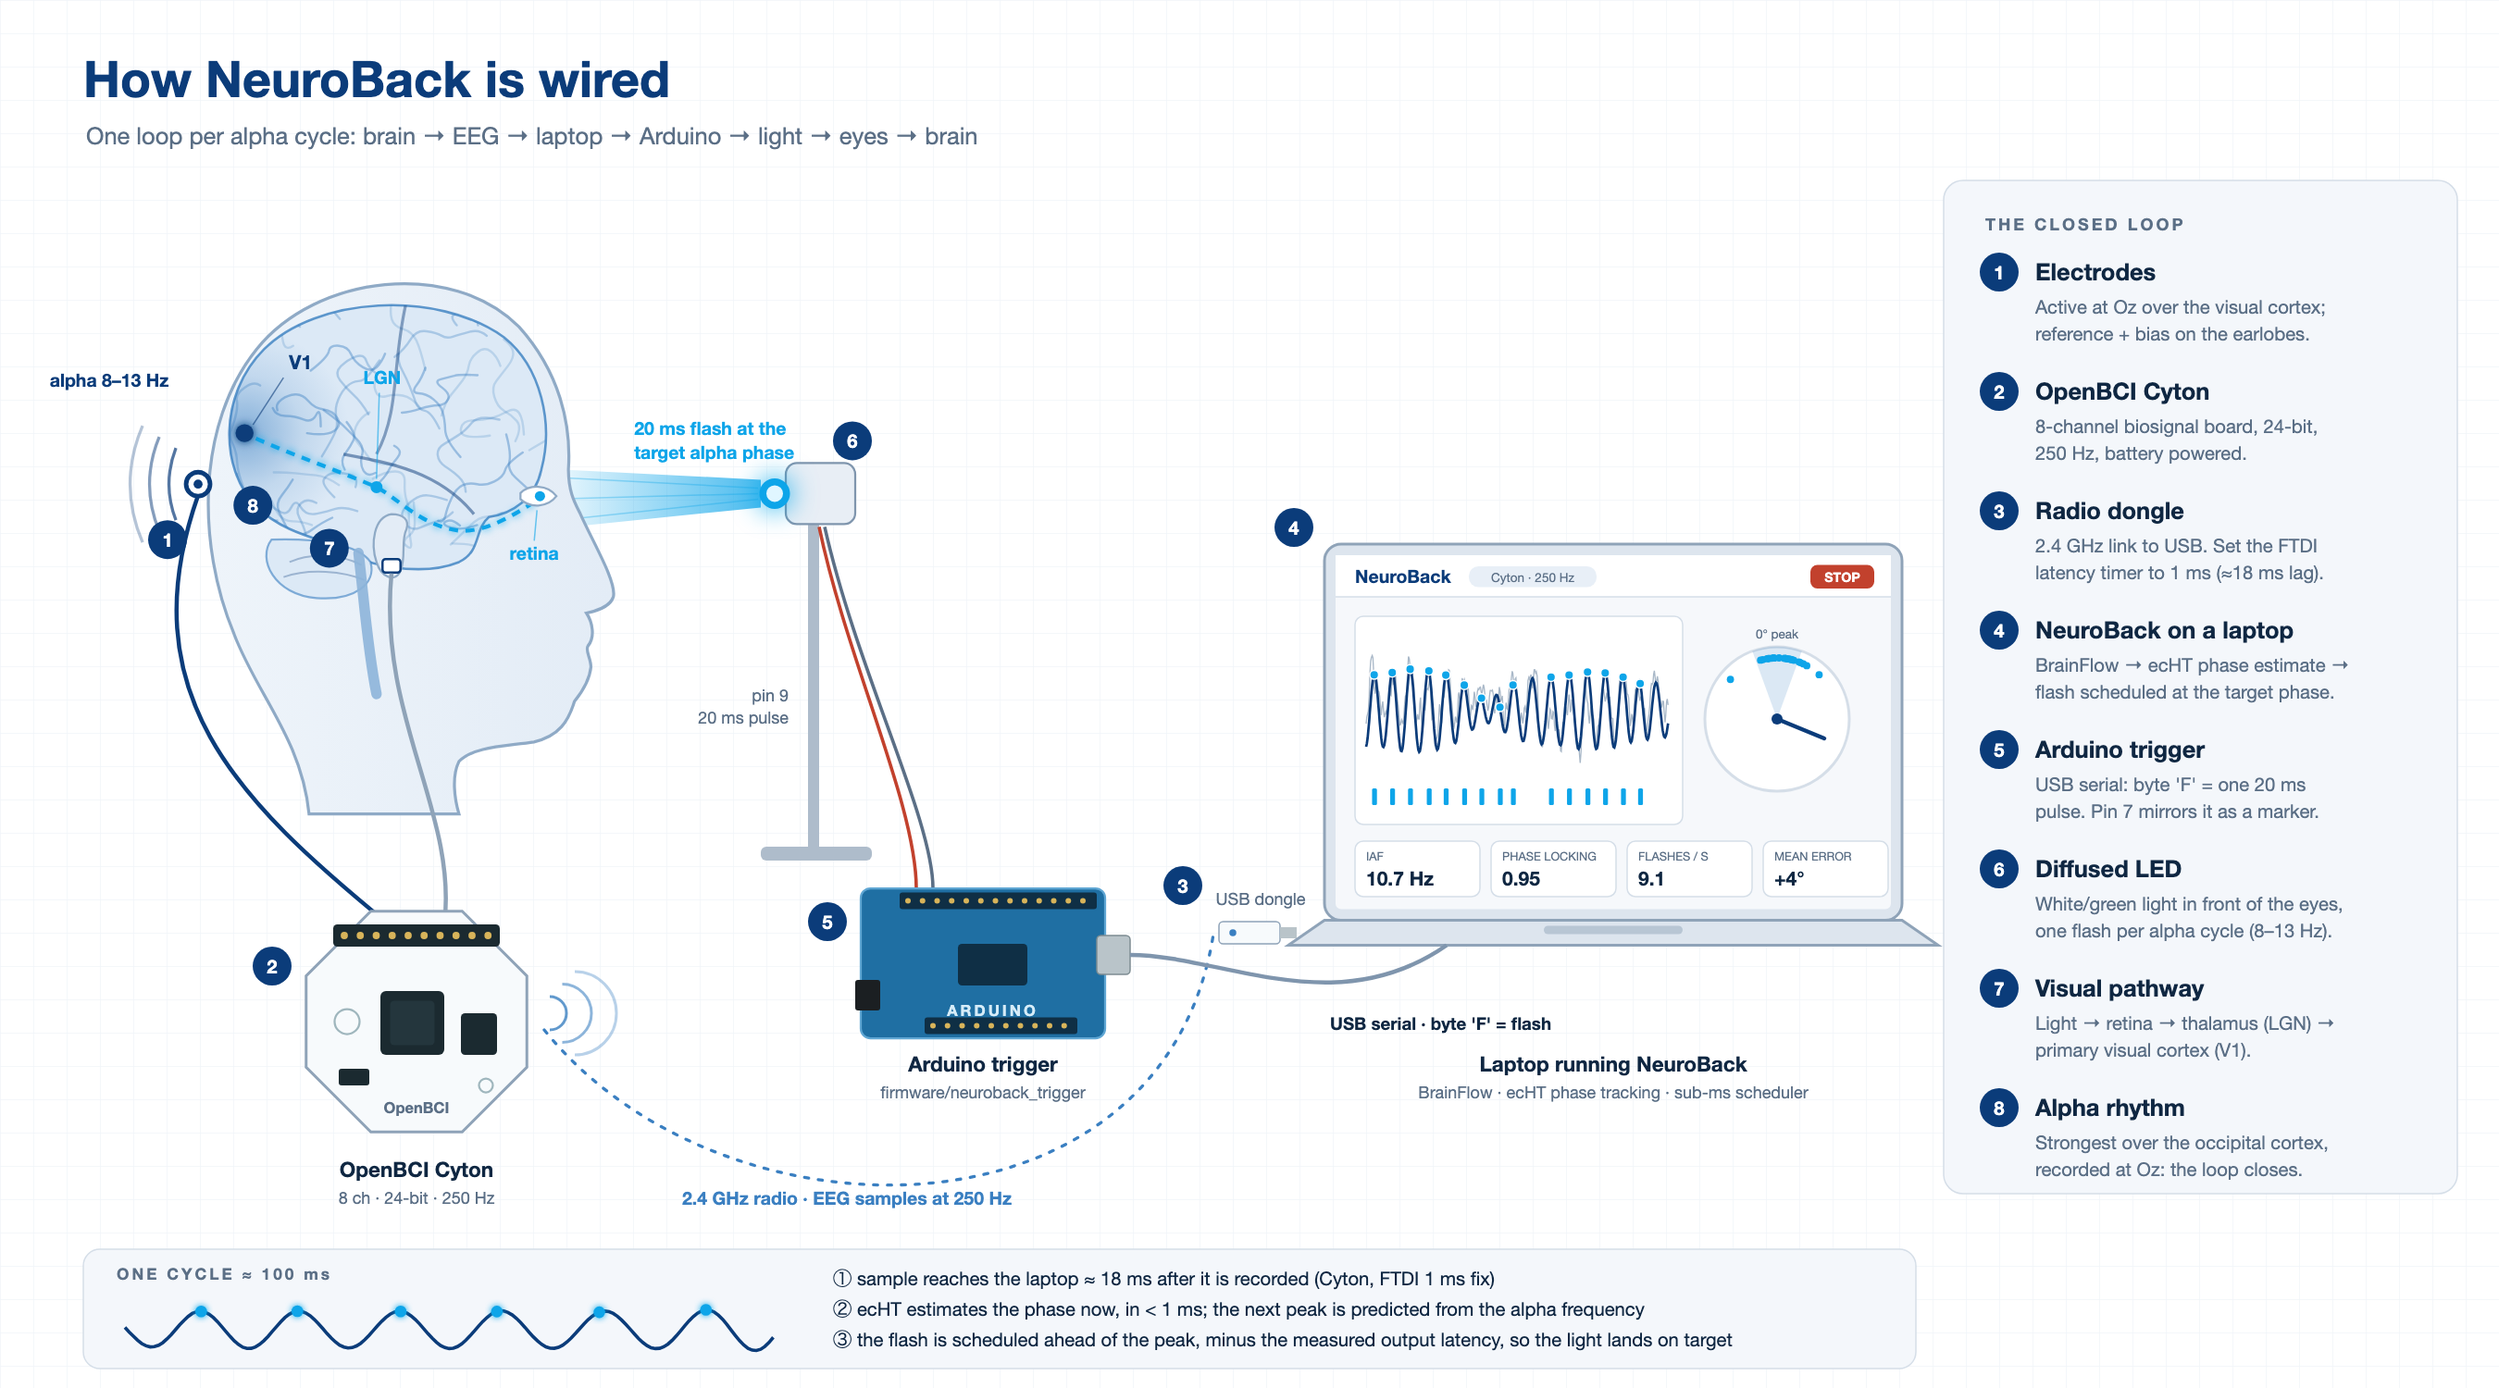
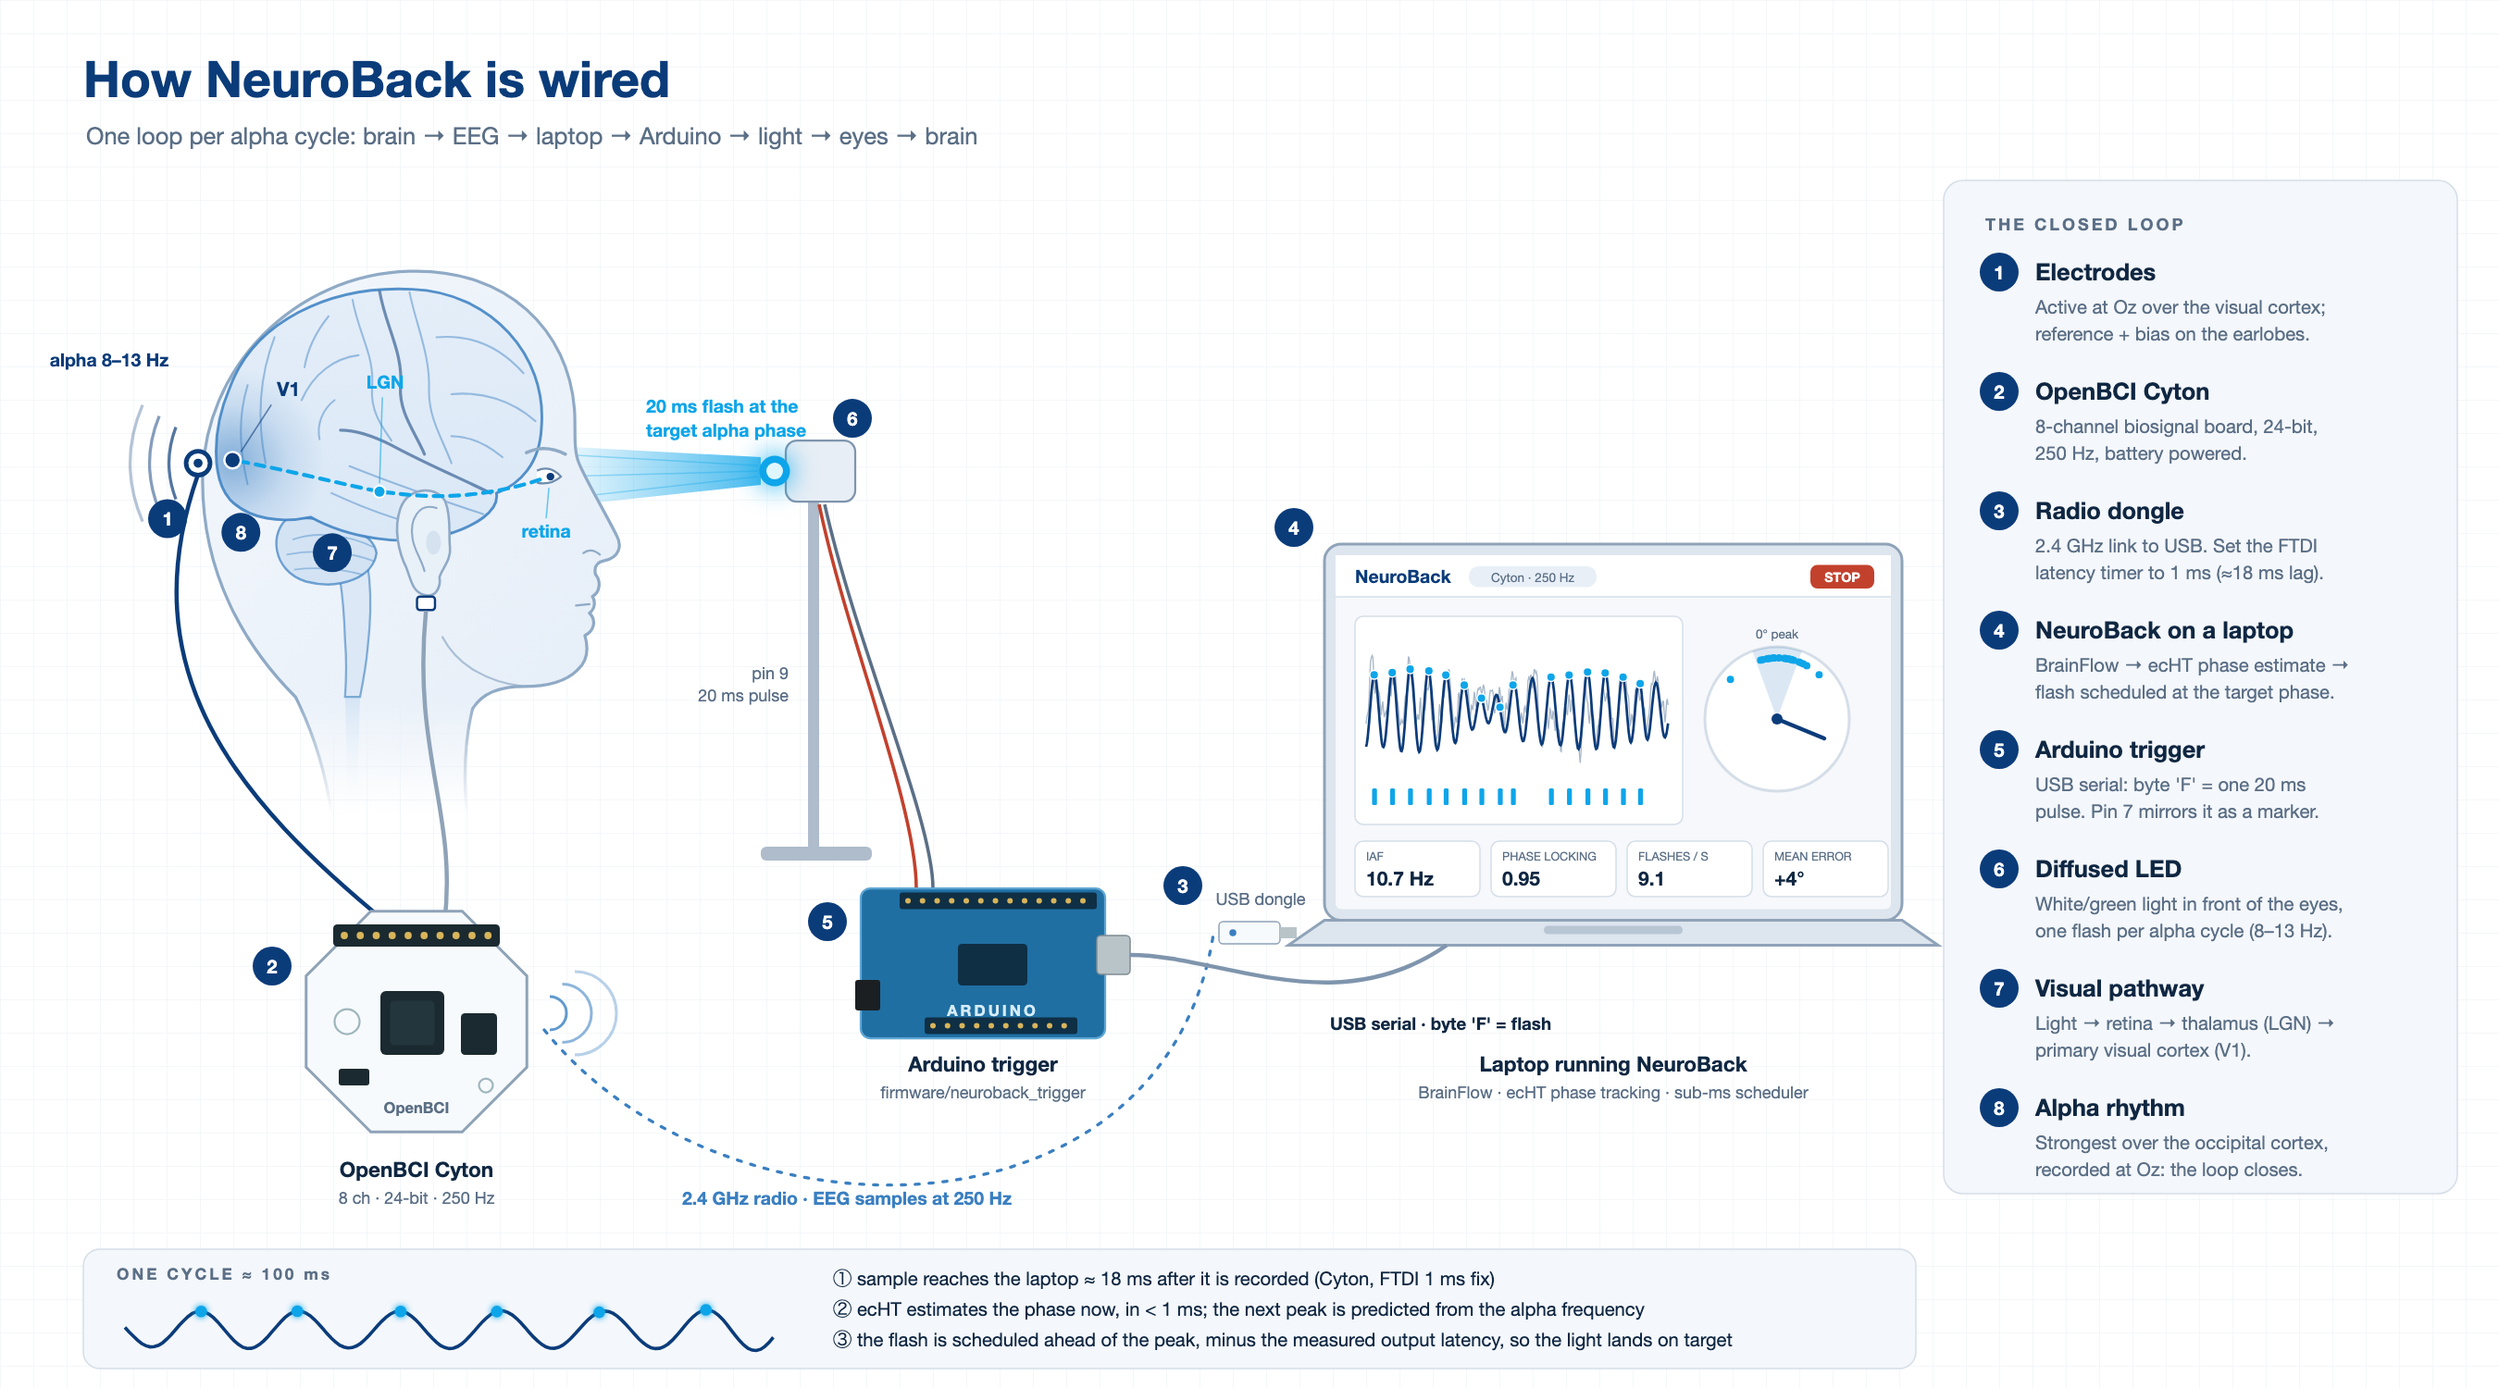
Redraw the participant: realistic head profile and anatomical brain
- head in standard proportions (brow, nose base and chin in thirds),
  defined nose, lips and chin, jaw line, a proper ear, faded neck
- brain in lateral view: rounder cerebrum, central sulcus and lateral
  fissure with gyri following them, cerebellum with folia, tapered
  brainstem and spinal cord; no hard-edged lobe tints
- occipital lobe highlighted (V1, where alpha is recorded at Oz)
- hero labels moved outside the head with leader lines

diff --git a/scripts/make_illustrations.py b/scripts/make_illustrations.py
@@ -38,80 +38,107 @@ BRAIN_FILL = "#DCE9F6"
 FONT = "'Helvetica Neue', Helvetica, 'Segoe UI', sans-serif"
 
 # ----------------------------------------------------------------------------- head + brain
-# Local coordinates: a head in profile facing right, about 300 x 380.
-HEAD = ("M95,380 C90,330 60,300 45,260 C20,200 20,120 60,70 C100,20 190,10 235,55 C262,85 270,120 268,150 "
-        "C268,165 272,172 276,180 C285,200 300,225 298,235 C296,242 285,245 280,246 C284,252 286,262 281,268 "
-        "C279,271 283,276 283,282 C282,292 276,300 272,305 C268,318 262,328 245,332 C225,335 205,335 195,345 "
-        "C190,355 192,370 195,380 Z")
-BRAIN = ("M60,175 C35,150 35,100 65,70 C100,35 180,30 225,62 C250,82 258,120 250,150 C246,170 230,180 215,182 "
-         "C205,190 210,205 195,212 C170,222 130,215 110,200 C95,195 75,190 60,175 Z")
-EYE = (247.0, 170.0)
-OZ = (21.0, 160.0)
-EAR = (150.0, 214.0)
-V1 = (52.0, 126.0)
-PATHWAY = "M245,172 C225,185 210,192 195,191 C170,188 155,170 140,162 C112,150 82,140 54,127"
-
-
-def gyri(seed: int = 4, n: int = 46) -> str:
-    """Procedural sulci: smooth random 'worms' inside the brain outline (clipped)."""
-    rng = np.random.default_rng(seed)
-    out = []
-    for _ in range(n):
-        x, y = rng.uniform(45, 250), rng.uniform(40, 210)
-        ang = rng.uniform(0, 2 * math.pi)
-        pts = [(x, y)]
-        for _ in range(rng.integers(4, 9)):
-            ang += rng.normal(0, 0.9)
-            step = rng.uniform(8, 15)
-            x, y = x + step * math.cos(ang), y + step * math.sin(ang)
-            pts.append((x, y))
-        d = f"M{pts[0][0]:.1f},{pts[0][1]:.1f} " + " ".join(
-            f"Q{pts[i][0]:.1f},{pts[i][1]:.1f} {(pts[i][0] + pts[i + 1][0]) / 2:.1f},{(pts[i][1] + pts[i + 1][1]) / 2:.1f}"
-            for i in range(1, len(pts) - 1))
-        op = rng.choice([0.22, 0.32, 0.42])
-        out.append(f'<path d="{d}" fill="none" stroke="{BLUE}" stroke-opacity="{op}" stroke-width="1.5" stroke-linecap="round"/>')
-    return "\n".join(out)
+# Local coordinates: a head in profile facing right, about 310 x 380. Anatomical layout
+# follows a standard lateral view: frontal, parietal, temporal and occipital lobes split
+# by the central sulcus and the lateral (Sylvian) fissure, cerebellum, brainstem, cord.
+HEAD = ("M110,380 C106,352 98,326 86,302 C52,268 24,220 24,158 C24,82 86,20 162,18 "
+        "C228,16 268,58 272,110 C273,124 271,136 275,146 C280,158 292,178 300,194 "
+        "C304,201 302,209 292,211 C287,212 285,215 286,220 C290,225 289,232 284,235 "
+        "C286,238 286,243 282,246 C287,251 285,258 279,261 C281,268 282,277 274,284 "
+        "C266,292 252,295 238,295 C222,295 210,300 204,310 C199,330 198,355 200,380 Z")
+BRAIN = ("M250,122 C254,74 216,32 164,30 C108,27 58,52 42,96 C30,124 30,156 42,170 "
+         "C55,184 77,186 96,182 C121,196 158,202 186,194 C206,188 222,178 220,166 "
+         "C236,160 249,146 250,122 Z")
+CEREBELLUM = "M82,182 C68,191 70,218 93,225 C116,231 138,222 140,206 C138,193 118,185 98,183 Z"
+BRAINSTEM = ("M126,188 C136,208 138,236 134,270 C133,282 131,292 129,302 L119,302 "
+             "C120,288 120,276 119,264 C118,232 115,210 108,196 Z")
+CORD = "M119,302 L129,302 L127,380 L121,380 Z"
+EAR_PATH = ("M186,172 C182,162 162,160 156,176 C151,190 155,206 160,216 C163,224 164,232 172,234 "
+            "C180,236 183,228 182,222 C184,216 190,210 189,202 C188,194 190,182 186,172 Z")
+SULCI_MAJOR = ("M142,31 C146,55 158,72 156,95 C155,112 165,124 172,140",
+               "M216,166 C196,156 172,146 150,134 C138,128 126,124 116,124")
+SULCI = ("M162,32 C167,56 176,74 175,98 C175,116 183,128 190,146",
+         "M124,37 C128,60 139,74 137,96 C136,112 144,122 150,131",
+         "M238,86 C222,68 202,60 180,62", "M246,118 C230,104 210,98 190,100",
+         "M224,142 C212,132 200,128 190,128", "M128,74 C112,76 98,86 90,104",
+         "M108,48 C100,58 94,70 92,82", "M211,180 C187,172 157,162 122,148",
+         "M190,192 C166,188 140,180 110,166", "M72,62 C62,88 60,116 66,146",
+         "M54,94 C48,114 48,134 54,160", "M112,104 C104,110 100,120 102,130")
+FOLIA = ("M84,197 C101,191 121,194 138,202", "M80,207 C100,203 122,205 140,212", "M85,217 C101,215 119,217 133,221")
+EYE = (255.0, 155.0)
+OZ = (21.0, 146.0)
+EAR = (173.0, 239.0)  # earlobe: reference electrode
+V1 = (44.0, 144.0)
+LGN = (142.0, 165.0)
+PATHWAY = "M249,157 C228,164 204,168 182,168 C164,168 153,166 142,165 C117,160 82,151 45,144"
 
 
 def head_group(uid: str, tx: float, ty: float, s: float, mirror: bool = False, labels: bool = True) -> str:
     sx = -s if mirror else s
-    cb = ("M70,197 C60,210 72,234 100,236 C126,238 140,226 136,212 C128,200 100,196 70,197 Z")
+    sulci = "".join(f'<path d="{d}" fill="none" stroke="{BLUE}" stroke-opacity="0.45" stroke-width="1.3" stroke-linecap="round"/>' for d in SULCI)
+    major = "".join(f'<path d="{d}" fill="none" stroke="{NAVY}" stroke-opacity="0.55" stroke-width="2" stroke-linecap="round"/>' for d in SULCI_MAJOR)
+    folia = "".join(f'<path d="{d}" fill="none" stroke="{BLUE}" stroke-opacity="0.4" stroke-width="1.1"/>' for d in FOLIA)
     return f"""
 <g transform="translate({tx},{ty}) scale({sx},{s})">
   <defs>
     <clipPath id="brainclip-{uid}"><path d="{BRAIN}"/></clipPath>
-    <radialGradient id="occ-{uid}" cx="{V1[0]}" cy="{V1[1]}" r="70" gradientUnits="userSpaceOnUse">
+    <clipPath id="cbclip-{uid}"><path d="{CEREBELLUM}"/></clipPath>
+    <radialGradient id="occ-{uid}" cx="{V1[0]}" cy="{V1[1]}" r="62" gradientUnits="userSpaceOnUse">
       <stop offset="0" stop-color="{BLUE}" stop-opacity="0.55"/>
-      <stop offset="0.55" stop-color="{BLUE}" stop-opacity="0.16"/>
+      <stop offset="0.6" stop-color="{BLUE}" stop-opacity="0.14"/>
       <stop offset="1" stop-color="{BLUE}" stop-opacity="0"/>
     </radialGradient>
-    <linearGradient id="skin-{uid}" x1="0" y1="0" x2="1" y2="0">
-      <stop offset="0" stop-color="{SKIN}"/><stop offset="1" stop-color="{SKIN2}"/>
+    <linearGradient id="neckfade-{uid}" x1="0" y1="0" x2="0" y2="380" gradientUnits="userSpaceOnUse">
+      <stop offset="0.8" stop-color="#FFFFFF"/><stop offset="1" stop-color="#000000"/>
+    </linearGradient>
+    <mask id="neckmask-{uid}" maskUnits="userSpaceOnUse" x="-20" y="-20" width="360" height="410">
+      <rect x="-20" y="-20" width="360" height="410" fill="url(#neckfade-{uid})"/>
+    </mask>
+    <linearGradient id="brainfill-{uid}" x1="0" y1="0" x2="0" y2="1">
+      <stop offset="0" stop-color="#E6EFF9"/><stop offset="1" stop-color="#D6E5F5"/>
+    </linearGradient>
+    <linearGradient id="cord-{uid}" x1="0" y1="0" x2="0" y2="1">
+      <stop offset="0" stop-color="#D6E5F5" stop-opacity="1"/><stop offset="1" stop-color="#D6E5F5" stop-opacity="0"/>
+    </linearGradient>
+    <linearGradient id="skin-{uid}" x1="0" y1="0" x2="1" y2="1">
+      <stop offset="0" stop-color="#F3F7FC"/><stop offset="1" stop-color="#E4EDF7"/>
     </linearGradient>
   </defs>
-  <path d="{HEAD}" fill="url(#skin-{uid})" stroke="{SKIN_LINE}" stroke-width="2"/>
-  <path d="{BRAIN}" fill="{BRAIN_FILL}" stroke="{BLUE}" stroke-opacity="0.8" stroke-width="1.6"/>
-  <g clip-path="url(#brainclip-{uid})">
-    <rect x="0" y="0" width="300" height="260" fill="url(#occ-{uid})"/>
-    {gyri()}
-    <path d="M205,180 C182,152 150,146 118,140" fill="none" stroke="{MINT}" stroke-opacity="0.5" stroke-width="2"/>
-    <path d="M160,38 C150,80 156,110 140,140" fill="none" stroke="{MINT}" stroke-opacity="0.45" stroke-width="2"/>
+  <g mask="url(#neckmask-{uid})">
+    <path d="{HEAD}" fill="url(#skin-{uid})" stroke="{SKIN_LINE}" stroke-width="2" stroke-linejoin="round"/>
+    <path d="{CORD}" fill="url(#cord-{uid})"/>
   </g>
-  <path d="{cb}" fill="{BRAIN_FILL}" stroke="{BLUE}" stroke-opacity="0.6" stroke-width="1.4"/>
-  <path d="M82,212 C95,206 115,206 130,214 M78,222 C95,216 118,218 132,224" fill="none" stroke="{MINT}" stroke-opacity="0.3" stroke-width="1.2"/>
-  <path d="M128,206 C132,240 134,270 140,300" fill="none" stroke="{PALE}" stroke-opacity="0.9" stroke-width="7" stroke-linecap="round"/>
-  <path d="{PATHWAY}" fill="none" stroke="{FLASH}" stroke-width="2.6" stroke-dasharray="6 5" filter="url(#glow)"/>
-  <circle cx="{V1[0]}" cy="{V1[1]}" r="6" fill="{MINT}" filter="url(#glow)"/>
-  <circle cx="140" cy="162" r="4" fill="{FLASH}"/>
-  <path d="M236,166 C242,160 254,160 260,168 C254,176 242,176 236,170 Z" fill="#FFFFFF" stroke="{SKIN_LINE}" stroke-width="1.4"/>
-  <circle cx="249" cy="168" r="3.4" fill="{FLASH}"/>
-  <path d="M150,180 C138,182 136,200 140,212 C143,222 152,226 156,218 C160,208 156,198 160,190 C162,184 158,180 150,180 Z"
-        fill="{SKIN2}" stroke="{SKIN_LINE}" stroke-width="1.4"/>
-  <path d="M8,168 C8,160 14,152 22,150" fill="none" stroke="{MINT}" stroke-width="0"/>
+  <path d="{BRAINSTEM}" fill="#DCE8F5" stroke="{BLUE}" stroke-opacity="0.6" stroke-width="1.4"/>
+  <path d="{CEREBELLUM}" fill="#D3E3F4" stroke="{BLUE}" stroke-opacity="0.7" stroke-width="1.5"/>
+  <g clip-path="url(#cbclip-{uid})">{folia}</g>
+  <g clip-path="url(#brainclip-{uid})">
+    <rect x="0" y="0" width="320" height="260" fill="url(#brainfill-{uid})"/>
+    <rect x="0" y="0" width="320" height="260" fill="url(#occ-{uid})"/>
+    {sulci}{major}
+  </g>
+  <path d="{BRAIN}" fill="none" stroke="{BLUE}" stroke-opacity="0.85" stroke-width="1.8" stroke-linejoin="round"/>
+  <path d="M238,295 C214,292 194,281 184,262" fill="none" stroke="{SKIN_LINE}" stroke-opacity="0.7" stroke-width="1.4" stroke-linecap="round"/>
+  <path d="{EAR_PATH}" fill="#E8F0F8" stroke="{SKIN_LINE}" stroke-width="1.6" stroke-linejoin="round"/>
+  <path d="M180,176 C168,172 162,184 164,196 C165,204 170,210 172,218" fill="none" stroke="{SKIN_LINE}" stroke-width="1.3" stroke-linecap="round"/>
+  <ellipse cx="178" cy="199" rx="5" ry="8" fill="#D5E2EF"/>
+  <path d="M240,139 Q252,133 266,140" fill="none" stroke="{SKIN_LINE}" stroke-width="2.2" stroke-linecap="round"/>
+  <path d="M247,151 Q256,147 263,155 Q256,161 247,159" fill="#FFFFFF" stroke="#6F8DAE" stroke-width="1.4" stroke-linejoin="round"/>
+  <circle cx="{EYE[0] + 1}" cy="{EYE[1]}" r="2.6" fill="{NAVY}"/>
+  <path d="M289,207 Q283,202 278,206" fill="none" stroke="{SKIN_LINE}" stroke-width="1.4" stroke-linecap="round"/>
+  <path d="M282,240 L273,241" stroke="{SKIN_LINE}" stroke-width="1.4" stroke-linecap="round"/>
+  <path d="{PATHWAY}" fill="none" stroke="{FLASH}" stroke-width="2.6" stroke-dasharray="6 5" stroke-linecap="round"/>
+  <circle cx="{V1[0]}" cy="{V1[1]}" r="5.5" fill="{NAVY}" stroke="#FFFFFF" stroke-width="1.5"/>
+  <circle cx="{LGN[0]}" cy="{LGN[1]}" r="4" fill="{FLASH}" stroke="#FFFFFF" stroke-width="1.2"/>
   <circle cx="{OZ[0]}" cy="{OZ[1]}" r="8" fill="#FFFFFF" stroke="{NAVY}" stroke-width="3"/>
-  <circle cx="{OZ[0]}" cy="{OZ[1]}" r="3" fill="{MINT}"/>
+  <circle cx="{OZ[0]}" cy="{OZ[1]}" r="3" fill="{NAVY}"/>
   <rect x="{EAR[0] - 6}" y="{EAR[1] - 4}" width="12" height="9" rx="2" fill="#FFFFFF" stroke="{NAVY}" stroke-width="1.5"/>
 </g>"""
+
+
+def preview_head(out):
+    svg = f"""<svg xmlns="http://www.w3.org/2000/svg" width="700" height="800" viewBox="0 0 700 800">{defs()}
+<rect width="700" height="800" fill="#FFFFFF"/>{head_group("pv", 30, 20, 2.0)}</svg>"""
+    render(svg, 700, 800, out, scale=1.0)
 
 
 def local_to_global(p, tx, ty, s, mirror=False):
@@ -212,7 +239,7 @@ def hero(x, fs, alpha, trig):
     eye = local_to_global(EYE, tx, ty, s, True)
     oz = local_to_global(OZ, tx, ty, s, True)
     v1 = local_to_global(V1, tx, ty, s, True)
-    lgn = local_to_global((140, 162), tx, ty, s, True)
+    lgn = local_to_global(LGN, tx, ty, s, True)
     ledx, ledy = 790, eye[1] - 2
 
     # two-track figure: EEG (Oz) and the light stimulus, on a shared time axis
@@ -241,9 +268,9 @@ def hero(x, fs, alpha, trig):
 {T(ledx - 6, ledy + 50, "20 ms LED flash", 12.5, TEXT, 600, "middle")}
 {T(ledx - 6, ledy + 66, "at the alpha peak", 12, MUTED, 400, "middle")}
 {T(tx - 150 * s, ty + 8, "PARTICIPANT", 11.5, NAVY, 700, "middle", 'letter-spacing="1.5"')}
-{T(v1[0] - 10, v1[1] - 20, "visual cortex (V1)", 12, NAVY, 600, "end")}
-<line x1="{v1[0] - 4:.1f}" y1="{v1[1] - 4:.1f}" x2="{v1[0] - 8:.1f}" y2="{v1[1] - 16:.1f}" stroke="{NAVY}" stroke-opacity="0.5"/>
-{T(lgn[0], lgn[1] + 70, "retina → LGN → V1", 12, SKY, 600, "middle")}
+<path d="M{v1[0] + 3:.1f},{v1[1] - 5:.1f} L{v1[0] + 22:.1f},{v1[1] - 60:.1f} L{W - 12},{v1[1] - 60:.1f}" fill="none" stroke="{NAVY}" stroke-opacity="0.55" stroke-width="1"/>
+{T(W - 12, v1[1] - 66, "visual cortex (V1)", 12, NAVY, 600, "end")}
+{T(eye[0] - 30, eye[1] - 22, "retina → LGN → V1", 12, SKY, 600, "end")}
 {T(oz[0] + 14, oz[1] + 5, "Oz", 12, NAVY, 700, "start")}
 
 <!-- closed loop connectors -->
@@ -365,7 +392,7 @@ def hardware(x, fs, alpha, trig):
     tx, ty, s = 120, 176, 1.08
     G = lambda p: local_to_global(p, tx, ty, s)  # noqa: E731
     eye, oz, ear, v1 = G(EYE), G(OZ), G(EAR), G(V1)
-    lgn = G((140, 162))
+    lgn = G(LGN)
     ledx, ledy = 560, eye[1] - 4
     cy_c = (300, 736)
     lap = (962, 400, 400, 255)
